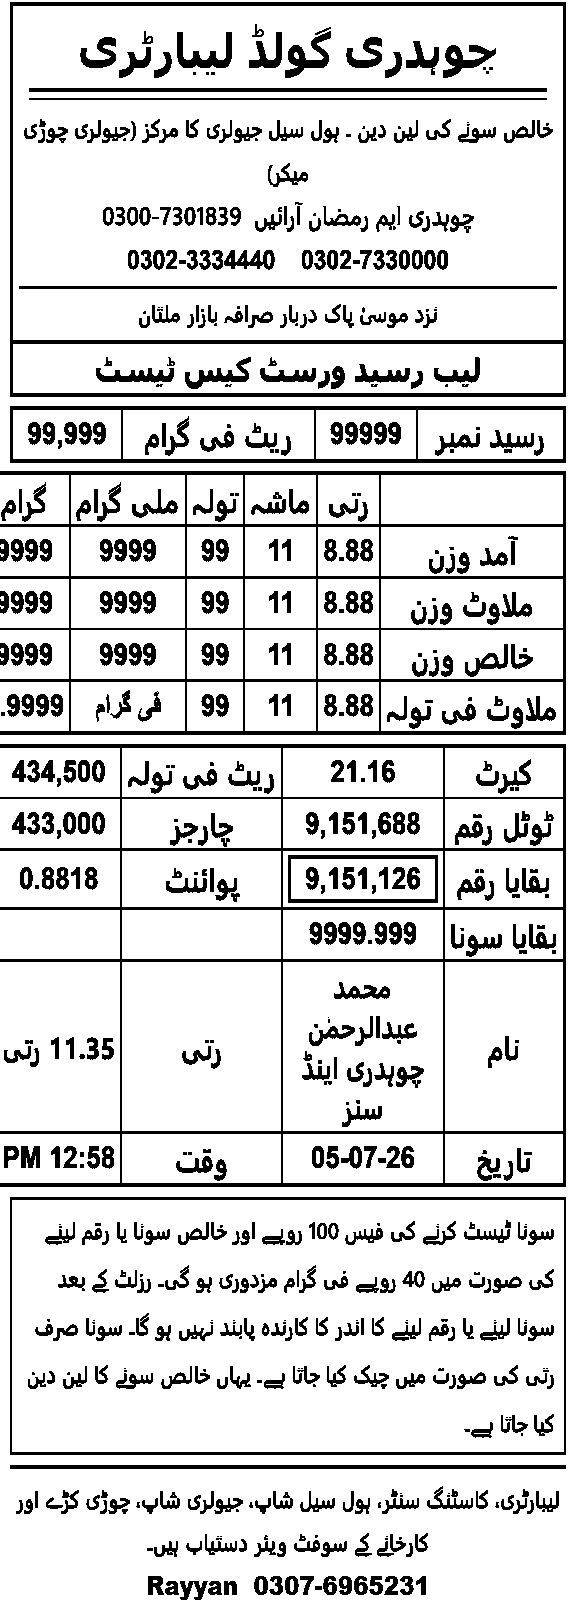
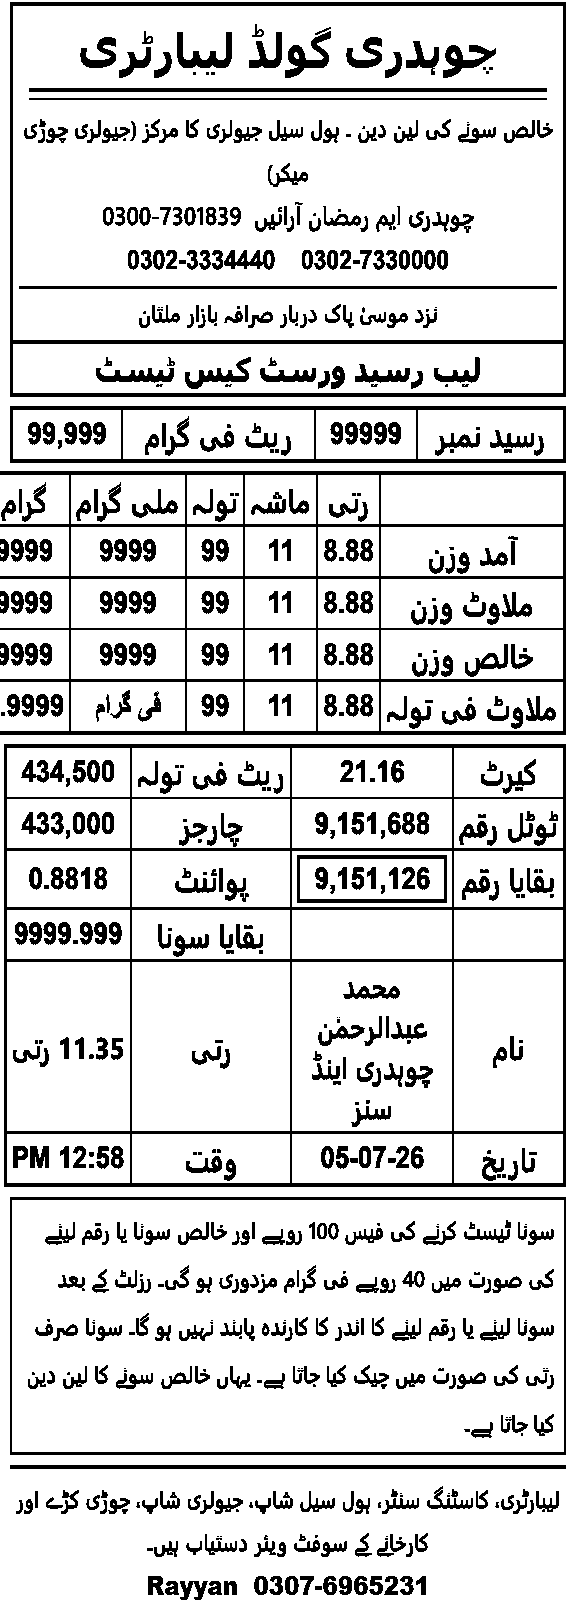
Move «بقایا سونا» to the second label column — money table back in place
Follow-up to 7692c38, which flagged this as an open consequence. «بقایا سونا»
sat in the money table's FIRST label column — the narrowest one (111.41px) —
and since these cells are nowrap it forced that column to 120.77px, shifting the
whole 4-column table ~9.4px left onto its already-tight left margin.

The row is now [L(''), L(''), L('بقایا سونا'), V(sonaDena)]: the label moves to
the SECOND label column, the one «ریٹ فی تولہ» / «پوائنٹ» already use at
160.72px, which absorbs this label's 120.77px without growing. Still four plain
cells — no span, no new style, no new calculation, same sonaDena value. Blank
cells are L(''), not V(''), because V('') renders as '-'. The WORST_CASE row in
rasterPrint.cjs mirrors it.

Verified with npm run thermal:rowproof — now fully green:
  * table 3 columns are EXACTLY the old widths again:
      111.41 | 161.67 | 160.72 | 125.63   (before and after, identical)
  * the money table starts back at x 6.98 on a realistic receipt and x 5.08 on
    the worst-case data — both non-negative, nothing hangs off the paper
  * tables 1 and 2 unchanged; all 11 pre-existing rows keep exactly their old
    height; نام with «محمد عبدالرحمٰن چوہدری اینڈ سنز» is still ONE line
  * removing the row still reproduces the pre-«بقایا سونا» baseline BYTE-
    IDENTICALLY, so the row remains the only difference
  * 576 dots wide, exactly one row band inserted at printScale 1.15

Baseline updated again on purpose: 4fdf9222 -> 04f96cd7 (the row's cells moved
[…]

diff --git a/src/components/Receipts.jsx b/src/components/Receipts.jsx
@@ -424,10 +424,14 @@ export function LabReceipt({ row, lab, ctx, embed }) {
         [L('ٹوٹل رقم'), V(fmtMoney(lab?.totalRaqam)), L('چارجز'), V(fmtMoney(lab?.charges))],
         [L('بقایا رقم', B), V(fmtMoney(lab?.baqi), { box: true, b: true }), L('پوائنٹ'), V(fmtNum(lab?.point, 4))],
         // «بقایا سونا» — the SAME sonaDena the Canon overlay prints (خالص سونا −
-        // اجرت کا سونا). The second label/value pair is left blank, like the weight
-        // table's empty corner cell: an ordinary 4-cell row in the shared template,
-        // no new styling and no second calculation.
-        [L('بقایا سونا'), V(sonaDena), L(''), L('')],
+        // اجرت کا سونا). An ordinary 4-cell row: no span, no new style, no second
+        // calculation. The label sits in the SECOND label column (the one «ریٹ فی
+        // تولہ» / «پوائنٹ» use, 160.72px) and the FIRST pair is blank — because this
+        // table's cells are nowrap, so putting this label in the narrow first column
+        // (111.41px) would force that column to 120.77px and shift the whole money
+        // table ~9.4px left, off its already-tight left margin. Blanks are L(''),
+        // not V(''): V('') renders as '-'.
+        [L(''), L(''), L('بقایا سونا'), V(sonaDena)],
         [L('نام'), V(customer.id ? (customer.name || '-') : '-', { wrap: true }), L('رتی'), V(fmtNum(lab?.milawatTotalRatti, 2), { u: true })],
         [L('تاریخ'), V(showDate(rates, now)), L('وقت'), V(fmtTime(now))]
       ]
